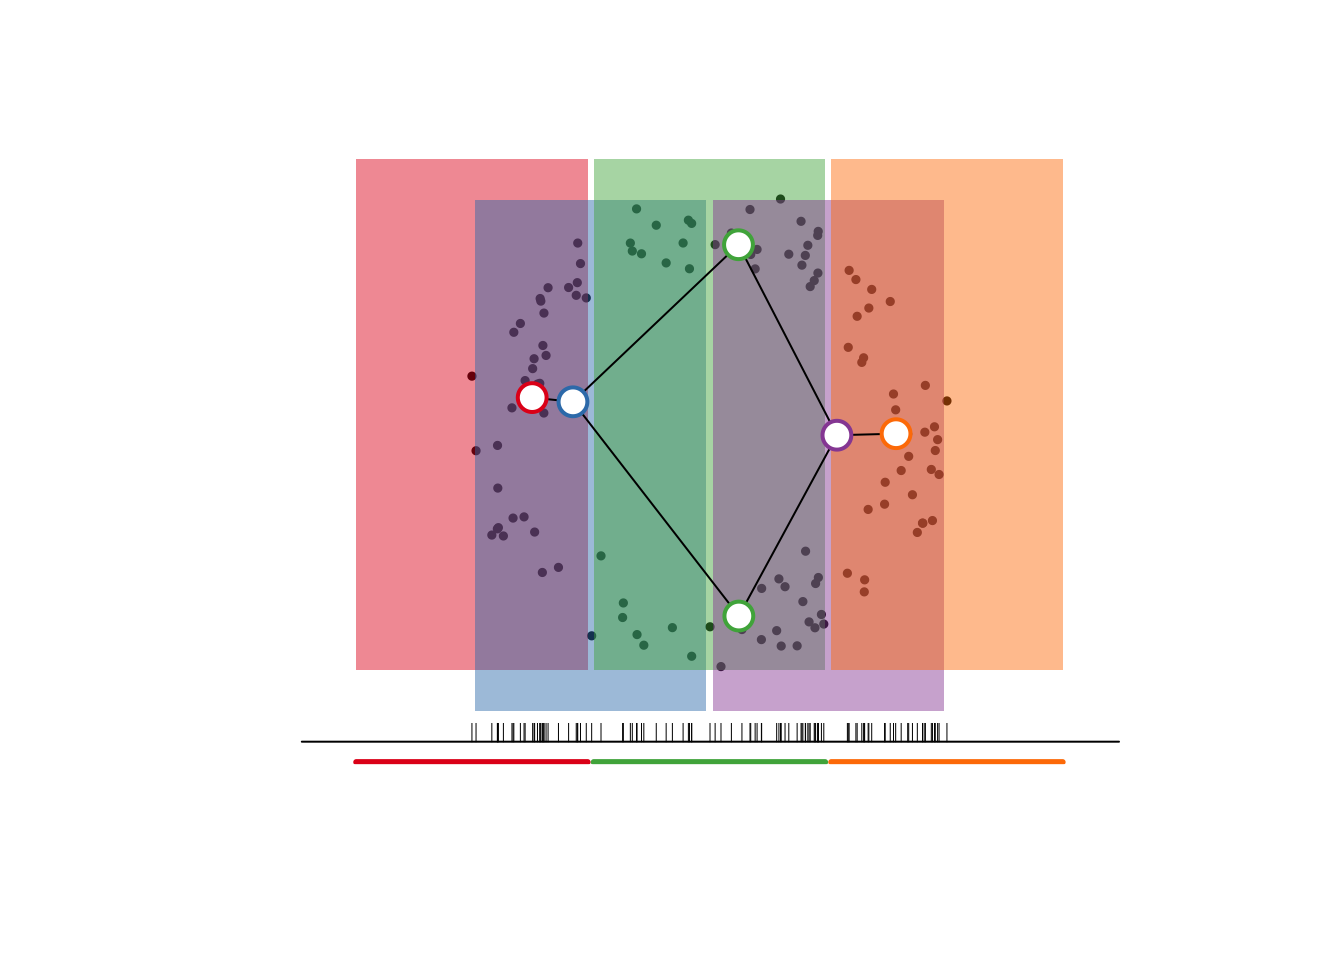
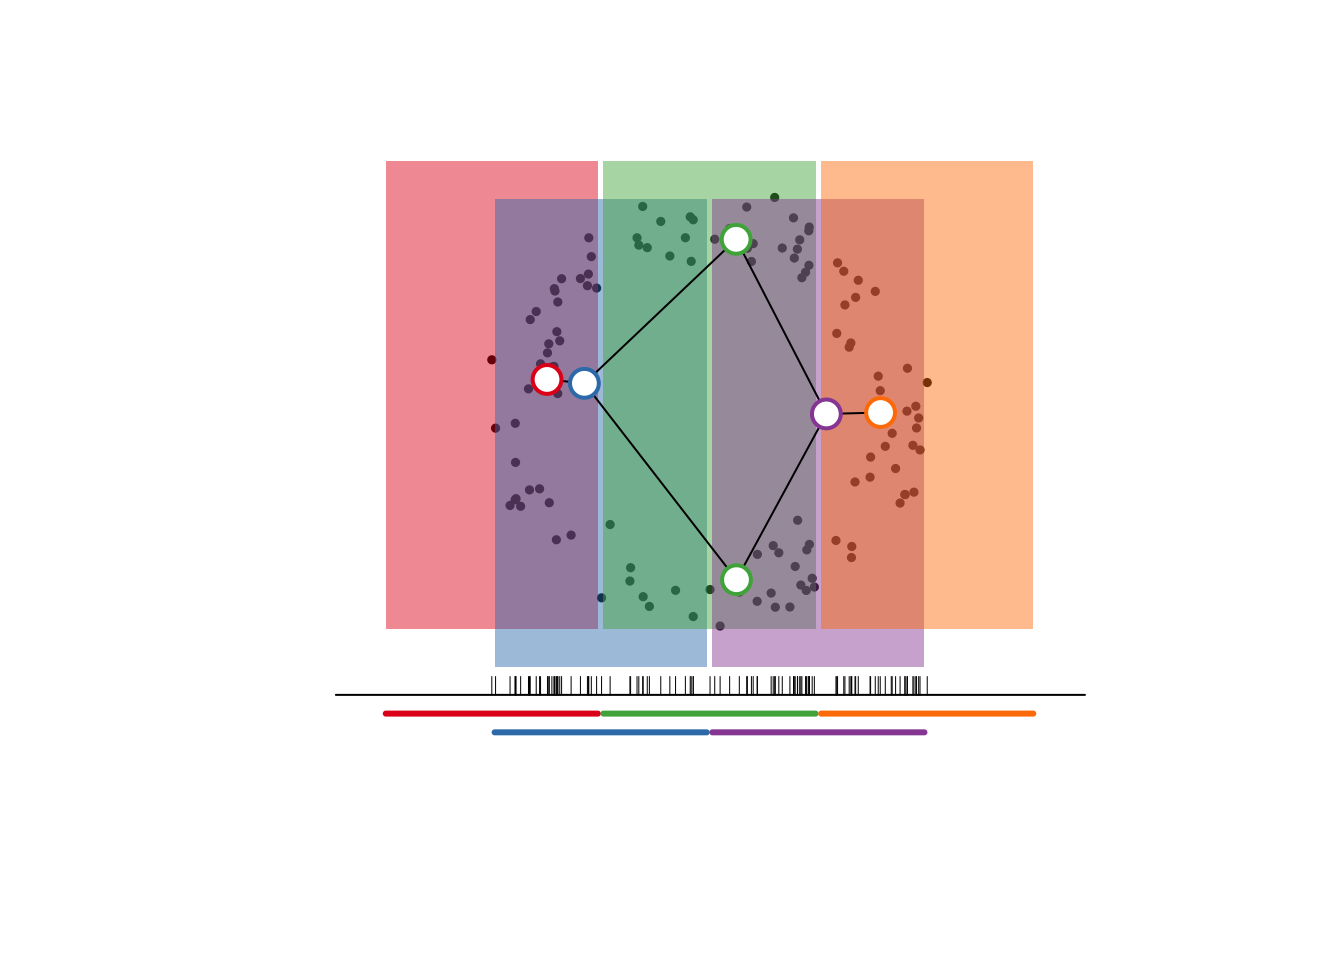
expand window to cover sets

Changed region(s): [[0.25, 0.1562, 0.8125, 0.8125]]

diff --git a/content/post/2020-05-01-mapper-construction-base-r.html b/content/post/2020-05-01-mapper-construction-base-r.html
@@ -136,7 +136,7 @@ print(b)</code></pre>
 <h2>visualization</h2>
 <p>The whole process is visualized below, also in base R (with the exception of a <a href="https://colorbrewer2.org/">ColorBrewer</a> palette), with comments separating the steps. To construct constituent frames of a gif or slideshow, just execute progressively more commented chunks from start to end.<a href="#fn3" class="footnote-ref" id="fnref3"><sup>3</sup></a></p>
 <pre class="r"><code>plot.new()
-plot.window(c(-1.25, 1.25), c(0, 2.75), asp = 1)
+plot.window(c(-1.25, 1.25), c(-.25, 2.75), asp = 1)
 # point cloud
 points(x, pch = 19, cex = .5)
 # lens
